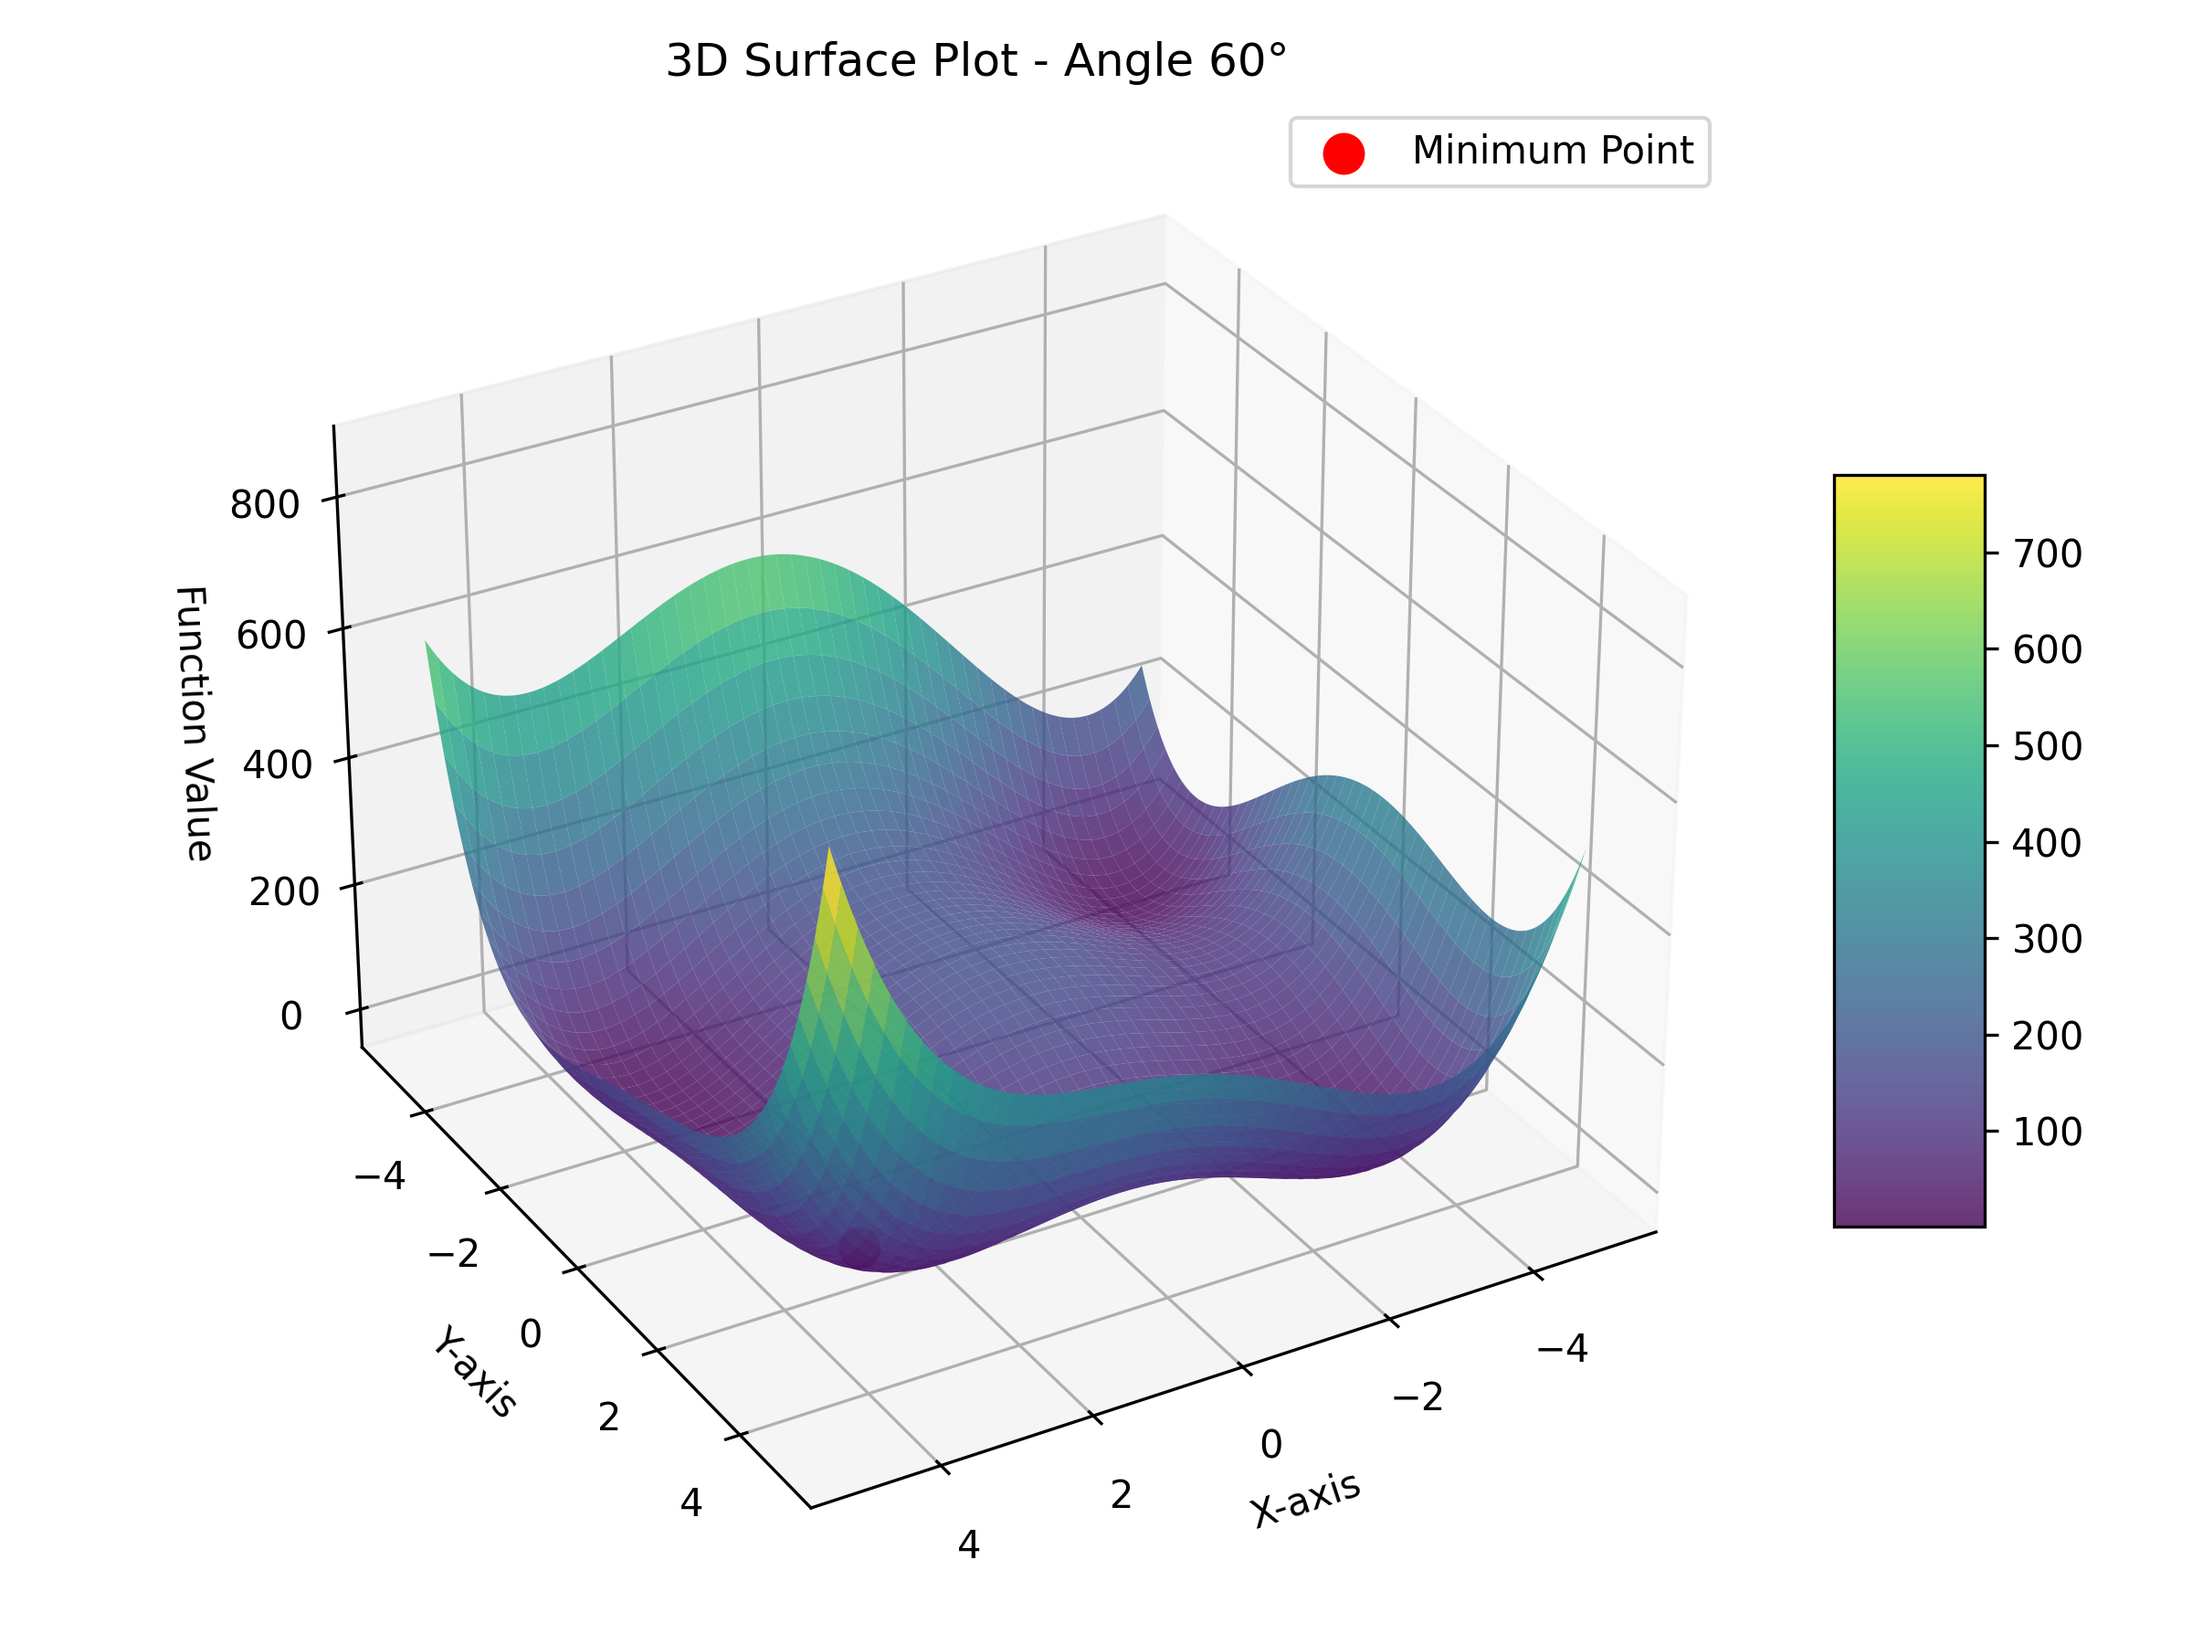
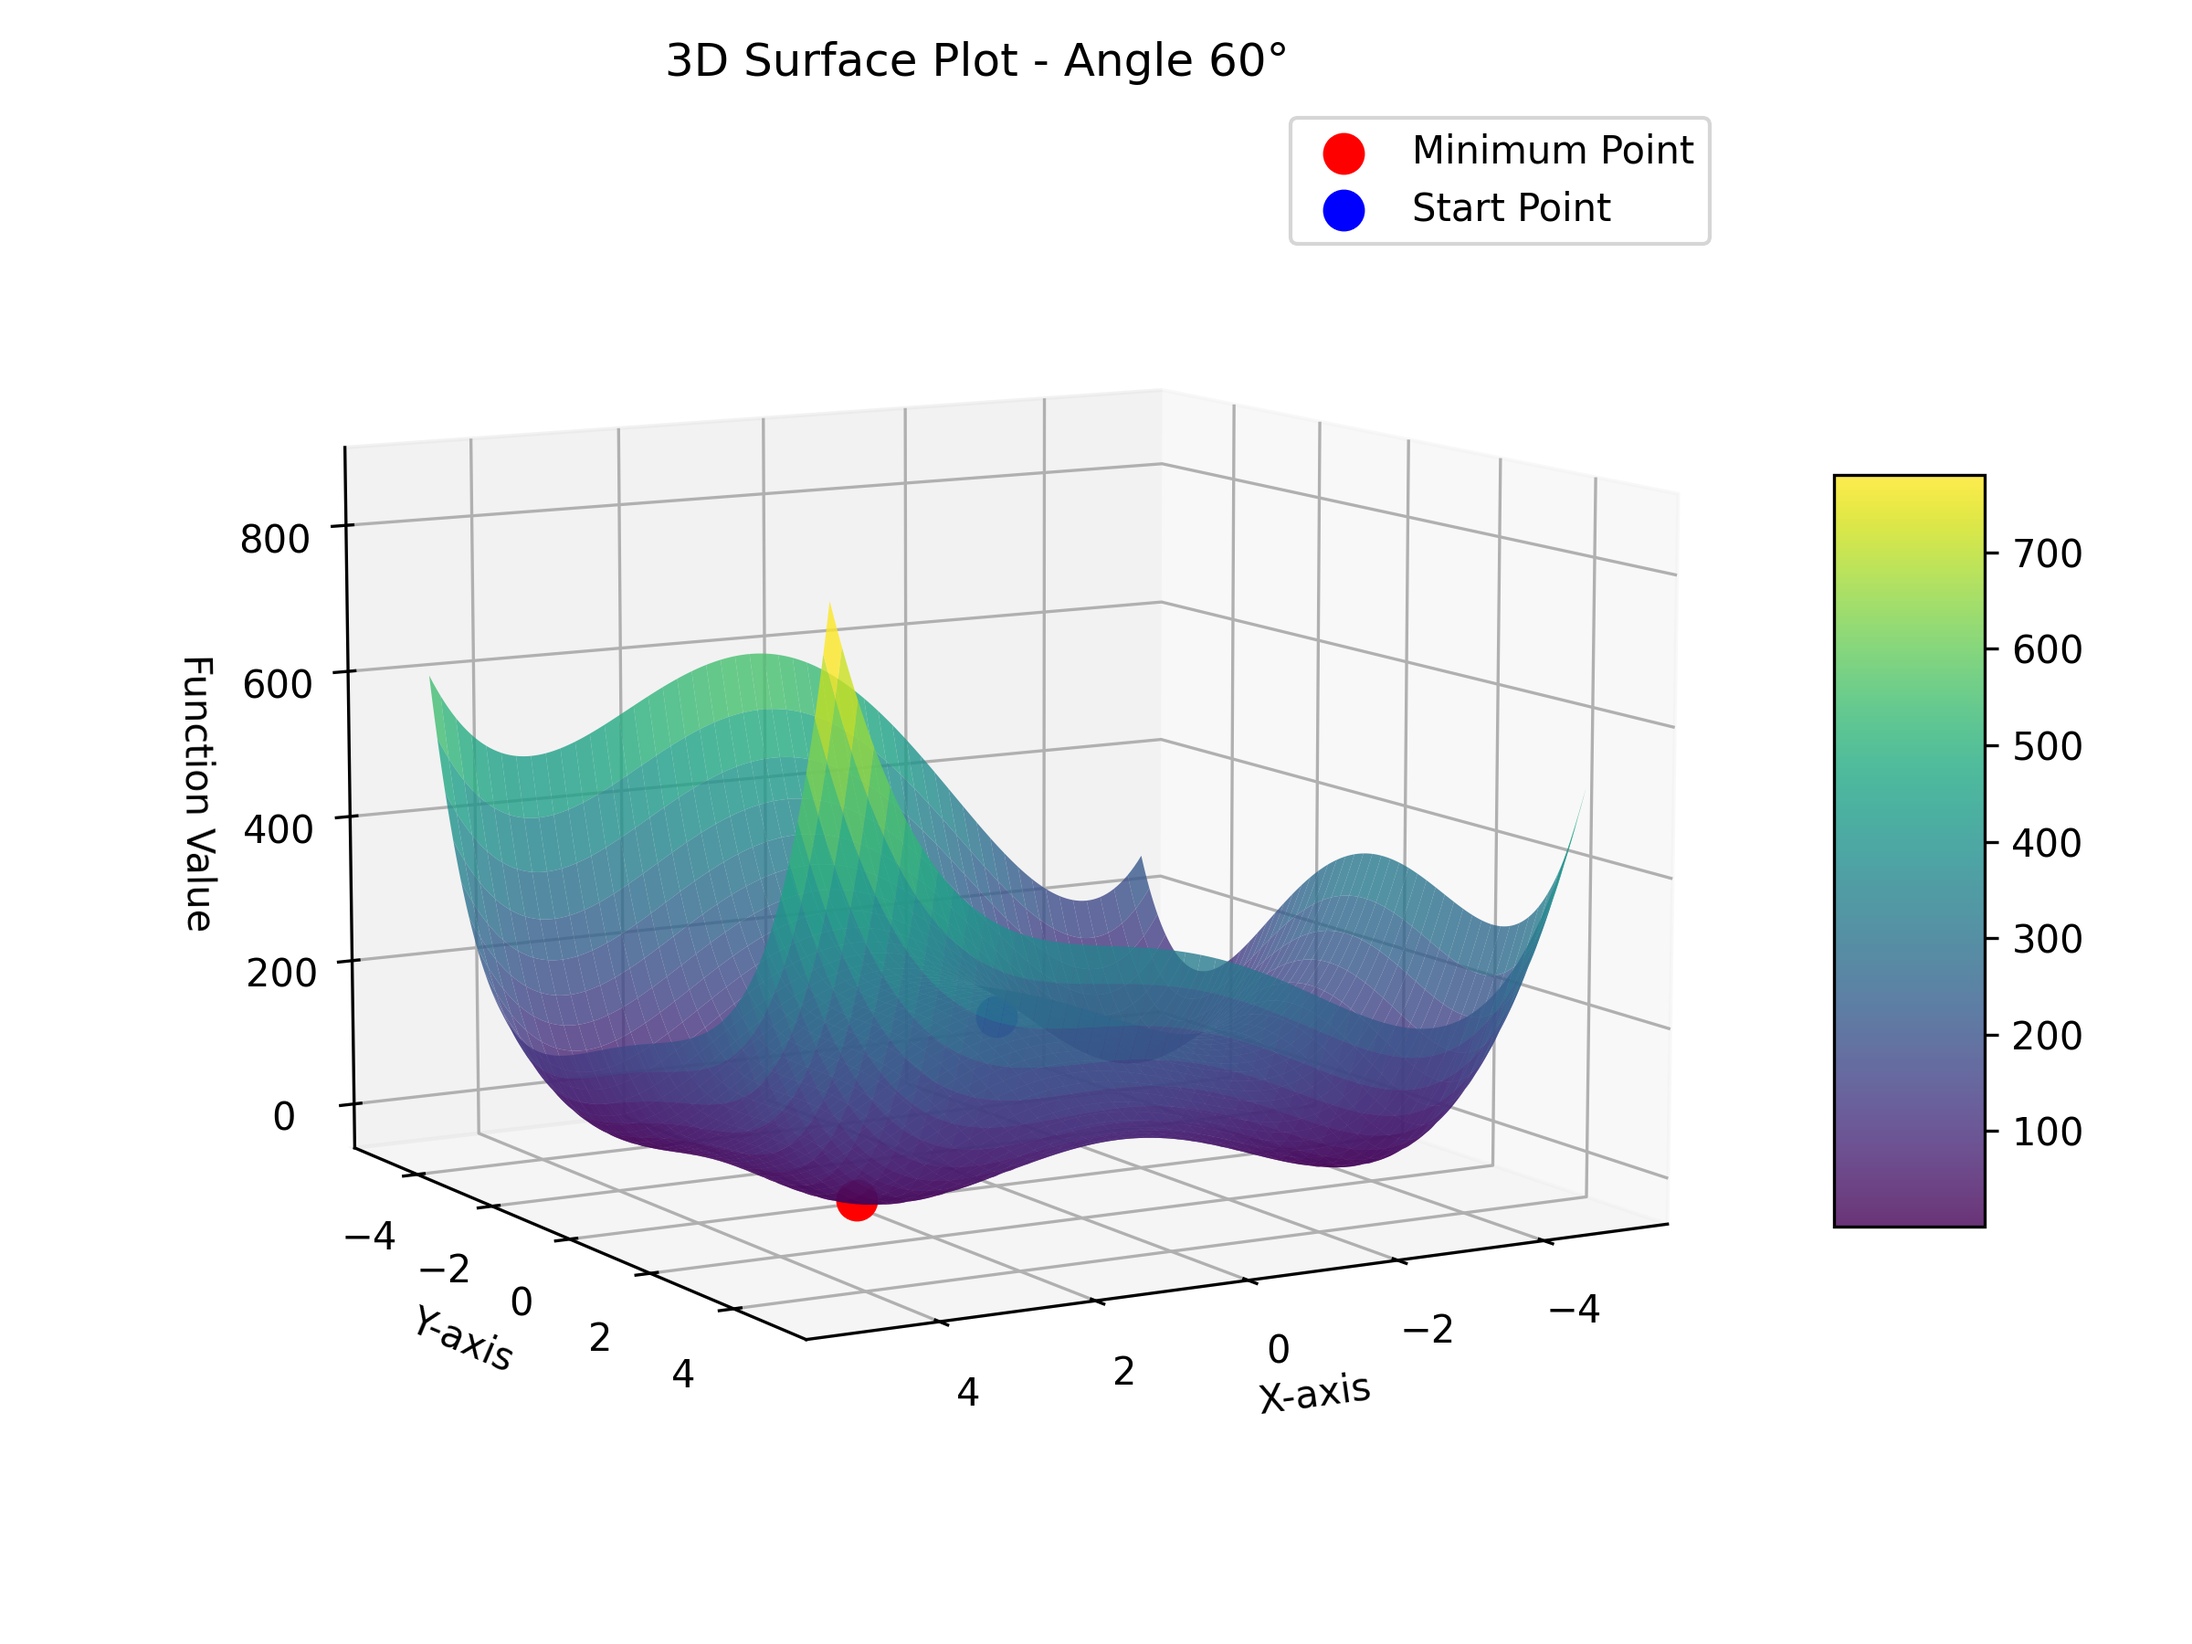
FINALE

diff --git a/metoptLab1/main.py b/metoptLab1/main.py
@@ -1,25 +1,59 @@
-from grafics.graphic import *
-from searches.main import gradient_descent
-from searches.shared import differentiable_function
+import numpy as np
+from scipy.optimize import minimize
 
-# 0.4, 0.2
-# 2, 4
-# 1, 1
-# 4, 3
+from grafics.graphic import get_grid, draw_chart, draw_xy_trajectory
+from searches.main import gradient_descent
+from searches.shared import differentiable_function, differentiable_function_sp
+
 if __name__ == '__main__':
-    initial_point = (4, 3)
+    initial_point = (0, 0)
 
     min_x, min_y, trajectory = gradient_descent(
         initial_point,
+        noise_level=1e-11,
         method='armijo',
-        noise_level=1e-9,
         max_iter=1000
     )
+
     print(trajectory)
-    minimum = (min_x, min_y, differentiable_function(min_x, min_y))
+
+    our_minimum = (min_x, min_y, differentiable_function(min_x, min_y))
+
+    res_scipy = minimize(differentiable_function_sp, np.array(initial_point), method='BFGS', tol=1e-8)
+    scipy_minimum = (res_scipy.x[0], res_scipy.x[1], res_scipy.fun)
+
+    print("\n Результаты исследований\n")
+    print(f"  Метод градиентного спуска (Wolfe):")
+    print(f"   X = {our_minimum[0]:.10f}, Y = {our_minimum[1]:.10f}")
+    print(f"   F(X, Y) = {our_minimum[2]:.10f}")
+    print(f"   Итерации: {len(trajectory)}\n")
+
+    print(f"  Метод Nelder-Mead (Scipy):")
+    print(f"   X = {scipy_minimum[0]:.10f}, Y = {scipy_minimum[1]:.10f}")
+    print(f"   F(X, Y) = {scipy_minimum[2]:.10f}")
+    print(f"   Итерации: {res_scipy.nit}\n")
+
+    methods = ["BFGS", "Nelder-Mead"]
+
+    results = {}
+
+    for method in methods:
+        res = minimize(differentiable_function_sp, np.array(initial_point), method=method, tol=1e-8)
+        results[method] = {
+            "X": res.x[0],
+            "Y": res.x[1],
+            "F(X, Y)": res.fun,
+            "Iterations": res.nit if "nit" in res else "N/A"
+        }
+
+    # Вывод результатов в красивом виде
+    print("\n🔹 Сравнение методов оптимизации 🔹\n")
+    for method, data in results.items():
+        print(f"  Метод {method}:")
+        print(f"   X = {data['X']:.6f}, Y = {data['Y']:.6f}")
+        print(f"   F(X, Y) = {data['F(X, Y)']:.6f}")
+        print(f"   Итерации: {data['Iterations']}\n")
 
     grid = get_grid(0.05)
-    draw_chart(minimum, grid)
+    draw_chart(our_minimum, grid, initial_point)
     draw_xy_trajectory(trajectory)
-
-    print(minimum)

diff --git a/metoptLab1/grafics/graphic.py b/metoptLab1/grafics/graphic.py
@@ -2,7 +2,7 @@ import matplotlib
 import numpy as np
 import matplotlib.pyplot as plt
 
-from searches.shared import differentiable_function
+from searches.shared import differentiable_function_sp,differentiable_function
 
 matplotlib.use('Agg')
 
@@ -14,8 +14,9 @@ def get_grid(grid_step):
     return x, y, differentiable_function(x, y)
 
 
-def draw_chart(point, grid):
+def draw_chart(point, grid, start_point=None):
     point_x, point_y, point_z = point
+
     grid_x, grid_y, grid_z = grid
 
     plt.rcParams.update({
@@ -25,7 +26,7 @@ def draw_chart(point, grid):
         'ytick.labelsize': 10
     })
 
-    angles = [30, 60, 90]
+    angles = [30, 60, 90, 120, 150]
     for i, angle in enumerate(angles):
         fig = plt.figure()
         ax = fig.add_subplot(111, projection='3d')
@@ -35,13 +36,18 @@ def draw_chart(point, grid):
 
         ax.scatter(point_x, point_y, point_z, color='red', s=100, label='Minimum Point')
 
+        if start_point:
+            start_x, start_y = start_point
+            start_z = differentiable_function_sp(np.array([start_x, start_y]))
+            ax.scatter(start_x, start_y, start_z, color='blue', s=100, label='Start Point')
+
         ax.set_title(f'3D Surface Plot - Angle {angle}°', fontsize=12)
         ax.set_xlabel('X-axis', fontsize=10)
         ax.set_ylabel('Y-axis', fontsize=10)
         ax.set_zlabel('Function Value', fontsize=10)
         ax.legend()
 
-        ax.view_init(elev=30, azim=angle)
+        ax.view_init(elev=10, azim=angle)
 
         plt.tight_layout()
         plt.savefig(f'grafics/graphicsPic/gradient_descent_chart_{i}.png')
@@ -49,7 +55,6 @@ def draw_chart(point, grid):
 
 def draw_xy_trajectory(trajectory):
     plt.figure(figsize=(6, 6), dpi=300)
-    print(len(trajectory))
 
     trajectory = np.array(trajectory)
 

diff --git a/metoptLab1/searches/shared.py b/metoptLab1/searches/shared.py
@@ -10,6 +10,10 @@ def differentiable_function(x: float, y: float, noise_level: float = 0) -> float
     # return 0.5*(x**2)+0.25*y**2-1
     return (x ** 2 + y - 11) ** 2 + (x + y ** 2 - 7) ** 2 + np.random.normal(0, noise_level)
 
+def differentiable_function_sp(x):
+    x_val, y_val = x[0], x[1]
+    return differentiable_function(x_val, y_val)
+
 
 def derivative_x(x: float, y: float) -> float:
     return (differentiable_function(x + global_epsilon, y) - differentiable_function(x - global_epsilon, y)) / (

diff --git a/metoptLab1/searches/wolfe.py b/metoptLab1/searches/wolfe.py
@@ -5,9 +5,9 @@ from .shared import differentiable_function, derivative_x, derivative_y
 def wolfe_line_search(
         x: float,
         y: float,
-        alpha_init: float = 0.8,
+        alpha_init: float = 0.6,
         c1: float = 1e-4,
-        c2: float = 0.5,
+        c2: float = 0.2,
         max_iters: int = 1000
 ) -> float:
     alpha = alpha_init
